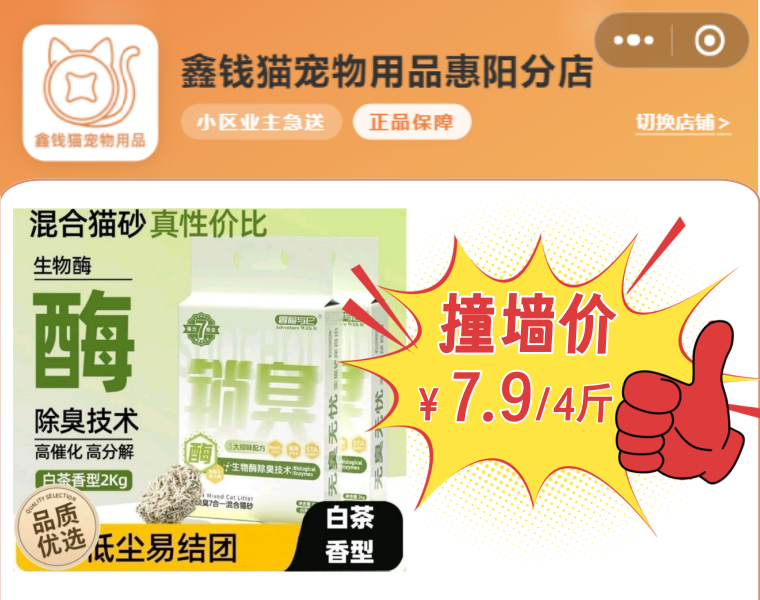
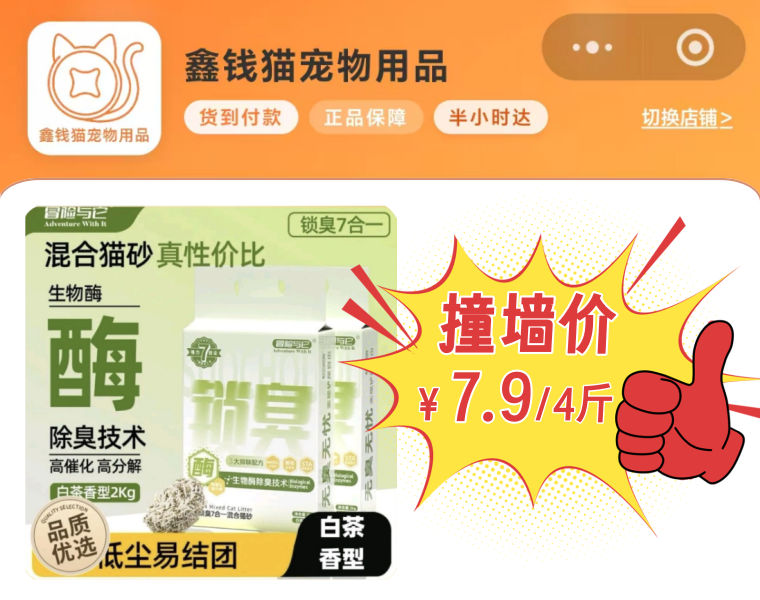
修复购物车起配金额bug

diff --git a/src/pagesOrder/detail/detail.vue b/src/pagesOrder/detail/detail.vue
@@ -87,7 +87,7 @@
         <template v-if="order.orderState === OrderState.ToDeliver">
           <view
             class="button delete"
-            @tap="onOrderCancel"
+            @tap="popup?.open()"
           >
             取消订单
           </view>
@@ -111,15 +111,11 @@
     <view class="popup-root">
       <view class="title">订单取消</view>
       <view class="description">
-        <view class="tips">请选择取消订单的原因：</view>
-        <view class="cell" v-for="item in reasonList" :key="item" @tap="reason = item">
-          <text class="text">{{ item }}</text>
-          <text class="icon" :class="{ checked: item === reason }"></text>
-        </view>
+        <view class="tips">确定要取消该订单吗？</view>
       </view>
       <view class="footer">
         <view class="button" @tap="popup?.close?.()">取消</view>
-        <view class="button primary" @tap="onOrderCancel">确认</view>
+        <view class="button primary" @tap="onOrderCancel">狠心取消</view>
       </view>
     </view>
   </uni-popup>
@@ -147,17 +143,6 @@ onShareTimeline(() => shareTimeline())
 const { safeAreaInsets } = uni.getSystemInfoSync()
 // 弹出层组件
 const popup = ref<UniHelper.UniPopupInstance>()
-// 取消原因列表
-const reasonList = ref([
-  '商品无货',
-  '不想要了',
-  '商品信息填错了',
-  '地址信息填写错误',
-  '商品降价',
-  '其它',
-])
-// 订单取消原因
-const reason = ref('')
 // 复制内容
 const onCopy = (id: string) => {
   // 设置系统剪贴板的内容
@@ -215,14 +200,13 @@ const onOrderConfirm = () => {
 
 // 取消订单
 const onOrderCancel = async () => {
-  // 发送请求
-  const res = await cancelMemberOrderByNoAPI(query.orderNo, { cancelReason: reason.value })
-  // 更新订单信息
+  const res = await cancelMemberOrderByNoAPI(query.orderNo, { cancelReason: '用户取消' })
   order.value = res.result
-  // 关闭弹窗
   popup.value?.close!()
-  // 轻提示
   uni.showToast({ icon: 'none', title: '订单取消成功' })
+  setTimeout(() => {
+    uni.redirectTo({ url: '/pagesOrder/list/list?type=0' })
+  }, 800)
 }
 </script>
 

diff --git a/src/components/PetNavBar.vue b/src/components/PetNavBar.vue
@@ -41,8 +41,9 @@ function callContact() {
       <view class="shop-info">
         <text class="shop-name">{{ shopData?.name || '宠物用品' }}</text>
         <view class="shop-tags">
-          <text class="tag tag-delivery">小区业主急送</text>
-          <text class="tag tag-quality">正品保障</text>
+          <text class="tag tag-genuine">货到付款</text>
+          <text class="tag tag-cod">正品保障</text>
+          <text class="tag tag-express">半小时达</text>
           <text class="switch-shop" @tap.stop="switchShop">切换店铺</text>
         </view>
       </view>
@@ -157,6 +158,20 @@ function callContact() {
         color: #FF7A2E;
         background: rgba(255,255,255,0.9);
         box-shadow: 0 2rpx 8rpx rgba(255,122,46,0.15);
+      }
+      &.tag-cod {
+        color: #FFF;
+        background: rgba(255,255,255,0.25);
+      }
+      &.tag-genuine {
+        color: #FF7A2E;
+        background: rgba(255,255,255,0.9);
+        box-shadow: 0 2rpx 8rpx rgba(255,122,46,0.15);
+      }
+      &.tag-express {
+        color: #E0550A;
+        background: rgba(255,255,255,0.82);
+        box-shadow: 0 2rpx 8rpx rgba(224,85,10,0.18);
       }
     }
     .switch-shop {

diff --git a/src/pages/product/product.vue b/src/pages/product/product.vue
@@ -1,6 +1,6 @@
 <script setup lang="ts">
 import { computed, nextTick, ref } from 'vue'
-import { onLoad, onShareAppMessage } from '@dcloudio/uni-app'
+import { onLoad, onShareAppMessage, onShareTimeline } from '@dcloudio/uni-app'
 import PetSkuPopup from '@/components/PetSkuPopup.vue'
 import { getProductByIdAPI } from '@/services/product'
 import type { ProductDetail } from '@/types/product'
@@ -252,6 +252,16 @@ onShareAppMessage(() => {
   }
 })
 
+onShareTimeline(() => {
+  const price = product.value?.price
+  const name = product.value?.name || '宠物用品'
+  return {
+    title: price ? `¥${price} | ${name}` : name,
+    query: `id=${query.id}&shop=${getShopCode()}`,
+    imageUrl: shareImagePath.value || product.value?.mainPictures?.[0] || '',
+  }
+})
+
 </script>
 
 <template>
@@ -266,7 +276,7 @@ onShareAppMessage(() => {
         <text class="nav-back-text">返回</text>
       </view>
       <text class="nav-sep">|</text>
-      <text class="nav-home-icon" @tap="goHome">&#x2302;</text>
+      <text class="nav-home-text" @tap="goHome">首页</text>
     </view>
   </view>
   <scroll-view enable-back-to-top scroll-y class="viewport" :style="{ paddingTop: (topSafe + 44) + 'px' }">

diff --git a/src/utils/useGlobalShare.ts b/src/utils/useGlobalShare.ts
@@ -8,7 +8,7 @@
  *   onShareAppMessage(() => shareAppMsg())
  *   onShareTimeline(() => shareTimeline())
  */
-const SHARE_TITLE = '鑫钱猫宠物用品-主粮|零食|日用品|应急用药-免配送费-半小时达'
+const SHARE_TITLE = '鑫钱猫宠物用品-主粮|零食|日用|药品-货到付款-免配送费'
 
 export function shareAppMsg() {
   const shopCode = uni.getStorageSync('shopCode') || ''

diff --git a/src/components/PetShopCart.vue b/src/components/PetShopCart.vue
@@ -27,7 +27,7 @@ const freeShippingText = computed(() => `满${freeShippingAmount.value}元免配
 
 // 是否满足免配送门槛
 const meetFreeShipping = computed(() => {
-  return Number(getAllPrice.value) >= freeShippingAmount.value
+  return Number(getAllNowPrice.value) >= freeShippingAmount.value
 })
 
 // 购物车展示

diff --git a/src/stores/modules/shop.ts b/src/stores/modules/shop.ts
@@ -2,7 +2,7 @@ import { ref } from 'vue'
 import type { ShopDetail } from '@/types/home'
 import { getShopDetailAPI } from '@/services/home'
 
-const SHOP_CACHE_EXPIRY = 24 * 60 * 60 * 1000
+const SHOP_CACHE_EXPIRY = 2 * 60 * 60 * 1000
 
 const shopData = ref<ShopDetail | null>(null)
 let lastShopCode = ''

diff --git a/src/pages/product/styles/product.scss b/src/pages/product/styles/product.scss
@@ -89,8 +89,9 @@ page {
   line-height: 1;
   margin: 0 4rpx;
 }
-.nav-home-icon {
-  font-size: 32rpx;
+.nav-home-text {
+  font-size: 28rpx;
+  font-weight: 500;
   color: #fff;
   padding: 10rpx 14rpx;
   border-radius: 10rpx;
